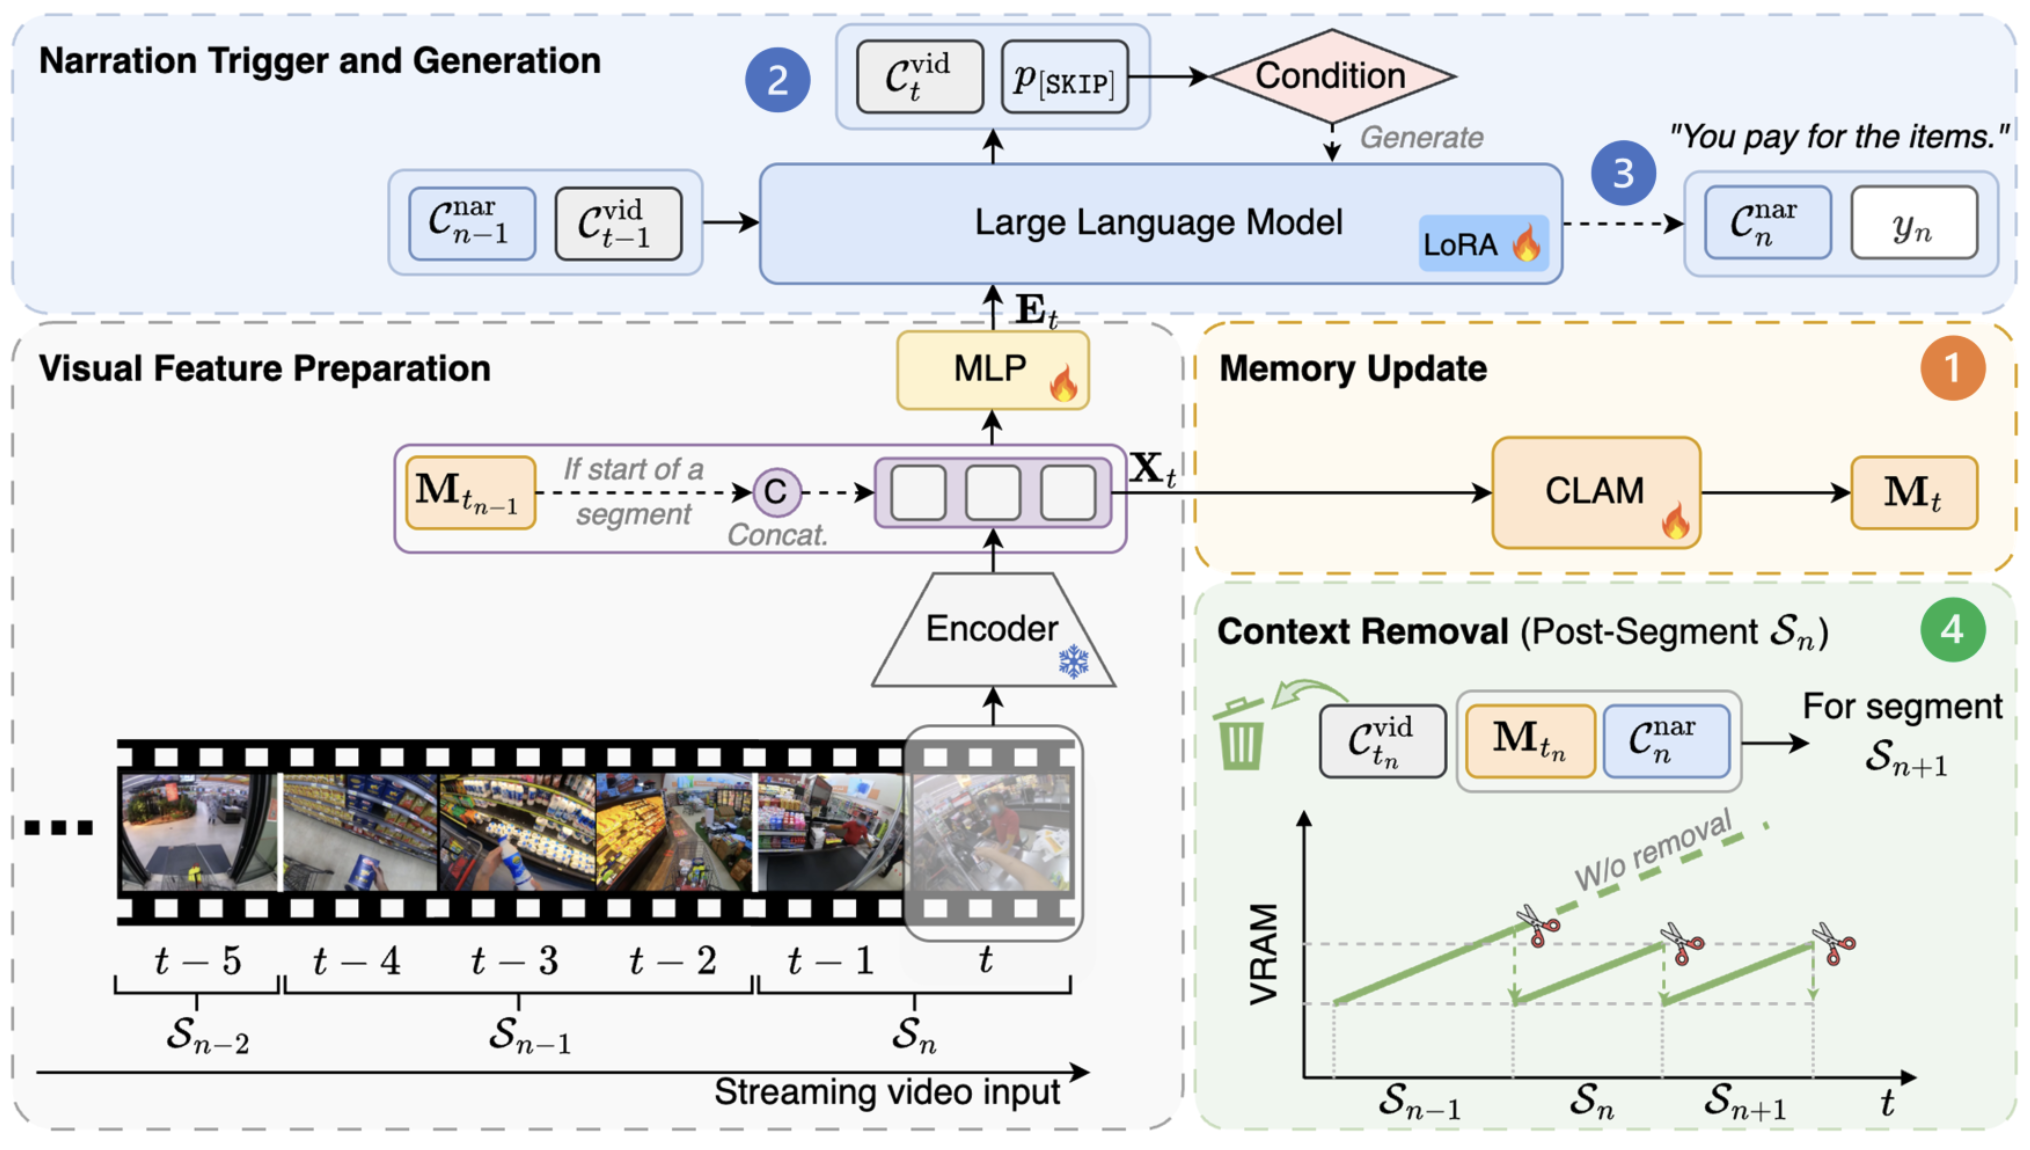
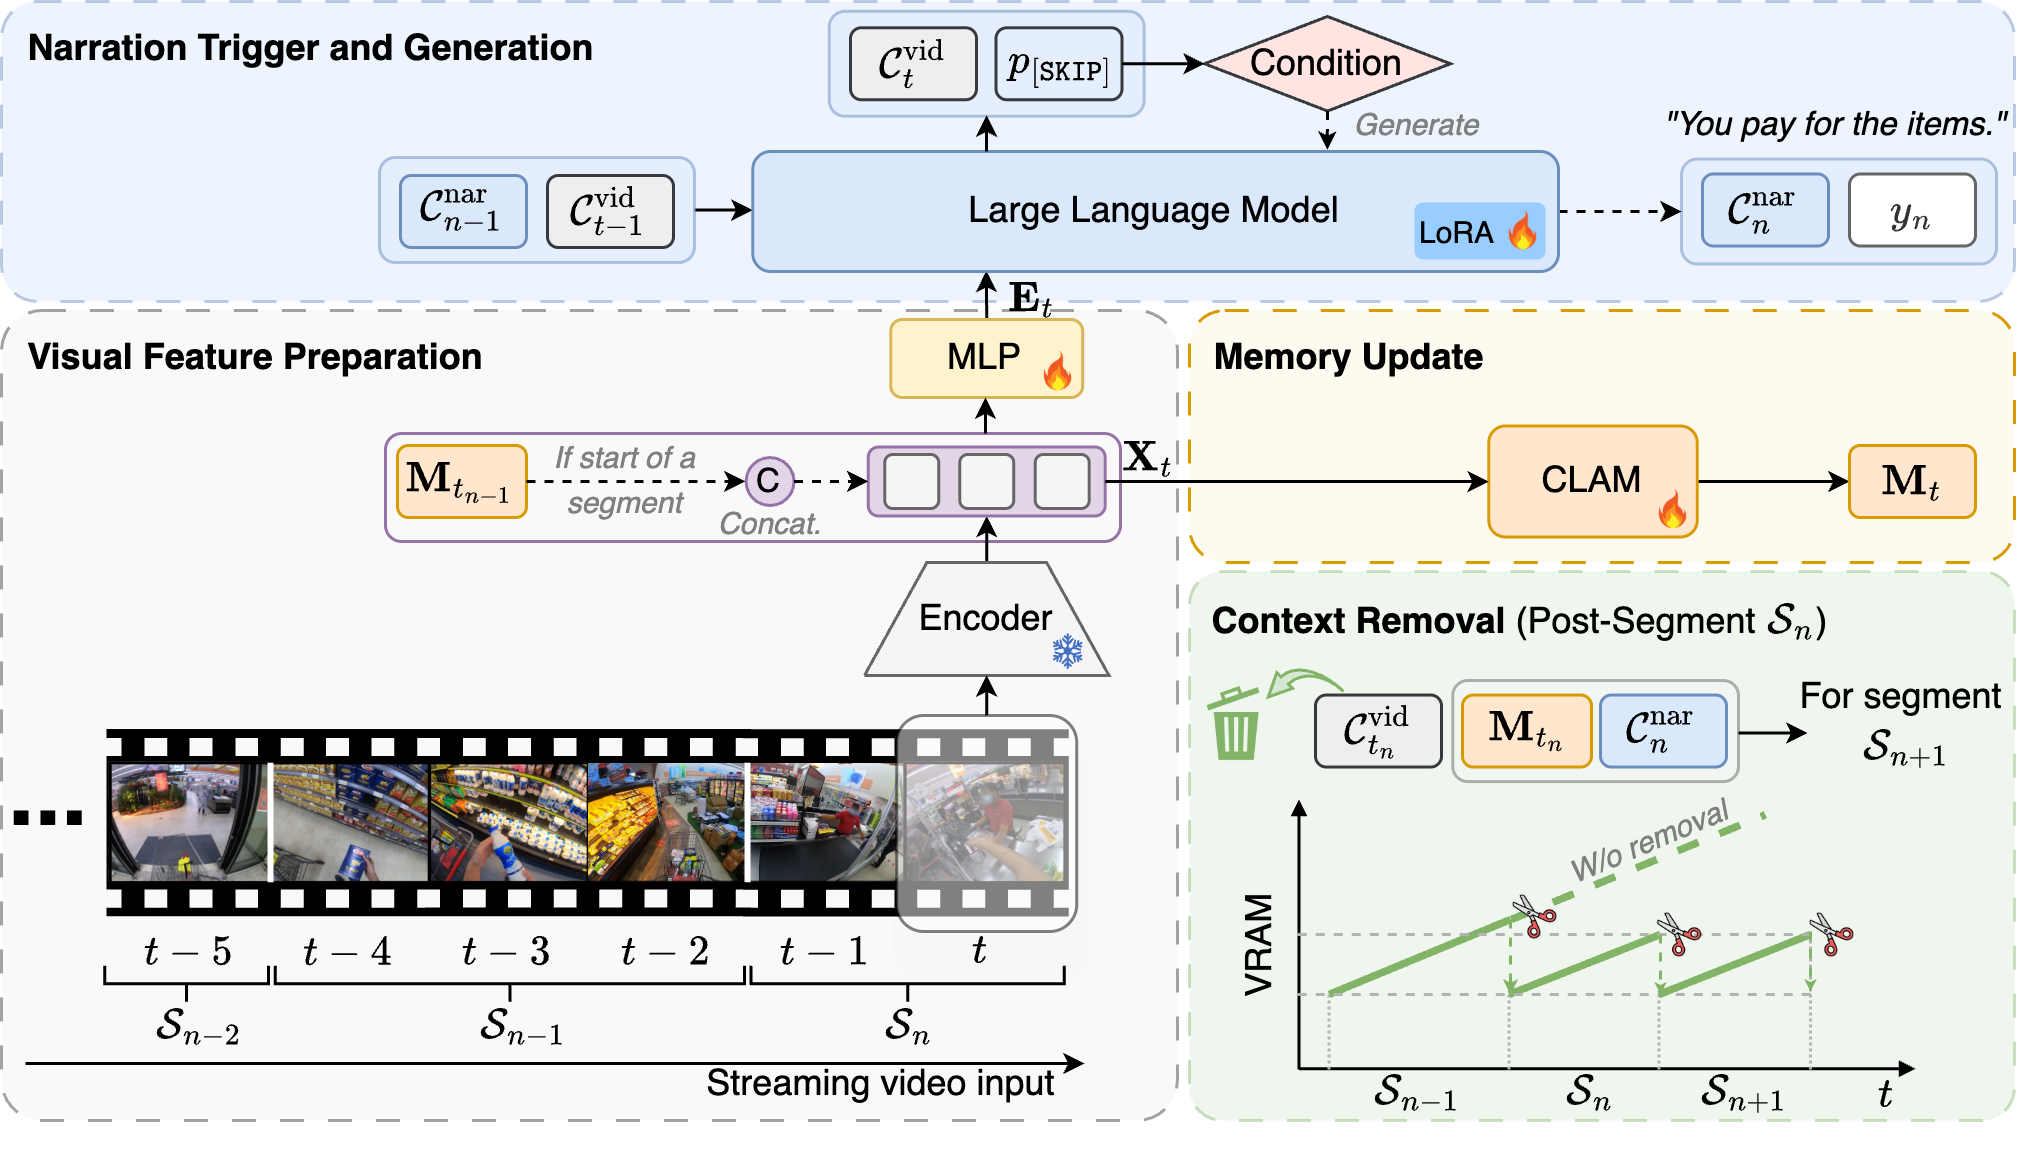
add CLAM

diff --git a/_publications/2026-03-06-CLAM.md b/_publications/2026-03-06-CLAM.md
@@ -1,0 +1,31 @@
+---
+title: "Scalable Video Action Anticipation with Cross Linear Attentive Memory"
+author: "Z. Zhong, M. Martin, D. Schneider, D. Lerch, <strong>C. Wu</strong>, F. Diederichs, J. Gall, J. Beyerer"
+collection: publications
+category: conferences
+permalink: /publication/2026-03-06-CLAM
+excerpt: ''
+date: 2026-03-06
+venue: 'The IEEE/CVF Winter Conference on Applications of Computer Vision (WACV)'
+paperurl: 'https://openaccess.thecvf.com/content/WACV2026/papers/Zhong_Scalable_Video_Action_Anticipation_with_Cross_Linear_Attentive_Memory_WACV_2026_paper.pdf'
+githuburl: 'https://github.com/zeyun-zhong/scalable-anticipation'
+videourl: 'https://www.youtube.com/watch?v=RBdYJNeKRzg'
+---
+
+<img src="../images/teasers/teaser_CLAM.png" alt="teaser_CLAM" style="display: block; margin: auto;">
+
+<span style="font-size: 0.85em;">
+<b>Abstract:</b> Recent advances in action anticipation rely heavily on Transformer architectures to learn discriminative representations of the past observation, incurring high computational and memory overhead that limits their applicability to long videos. While temporal processors with linear complexity like RNNs and state-space models offer efficient alternatives, their sequential nature risks overlooking subtle cues in observed frames that could enhance future anticipation. We address this limitation with Cross Linear Attentive Memory (CLAM), a memory module that selectively retrieves complementary context cues from frame features. By reformulating linear attention to replace traditional cross attention, CLAM achieves linear computation complexity and constant memory usage relative to input length. Finally, by fusing the outputs of the temporal processor and CLAM, a non-autoregressive Transformer decoder generates future actions in one shot with high accuracy. Experiments on egocentric (EpicKitchens100 and Ego4D) and third-person (Thumos14) benchmarks demonstrate our model’s superior anticipation accuracy and scalability, processing longer sequences with significantly less latency growth than alternatives. Our approach also achieves promising results in online action detection.
+</span>
+
+If you are interested in this work, please cite as below:
+
+```text
+@inproceedings{zhong2026scalable,
+  title={Scalable Video Action Anticipation with Cross Linear Attentive Memory},
+  author={Zhong, Zeyun and Martin, Manuel and Schneider, David and Lerch, David J and Wu, Chengzhi and Diederichs, Frederik and Gall, Juergen and Beyerer, J{\"u}rgen},
+  booktitle={Proceedings of the IEEE/CVF Winter Conference on Applications of Computer Vision},
+  pages={8113--8123},
+  year={2026}
+}
+```
